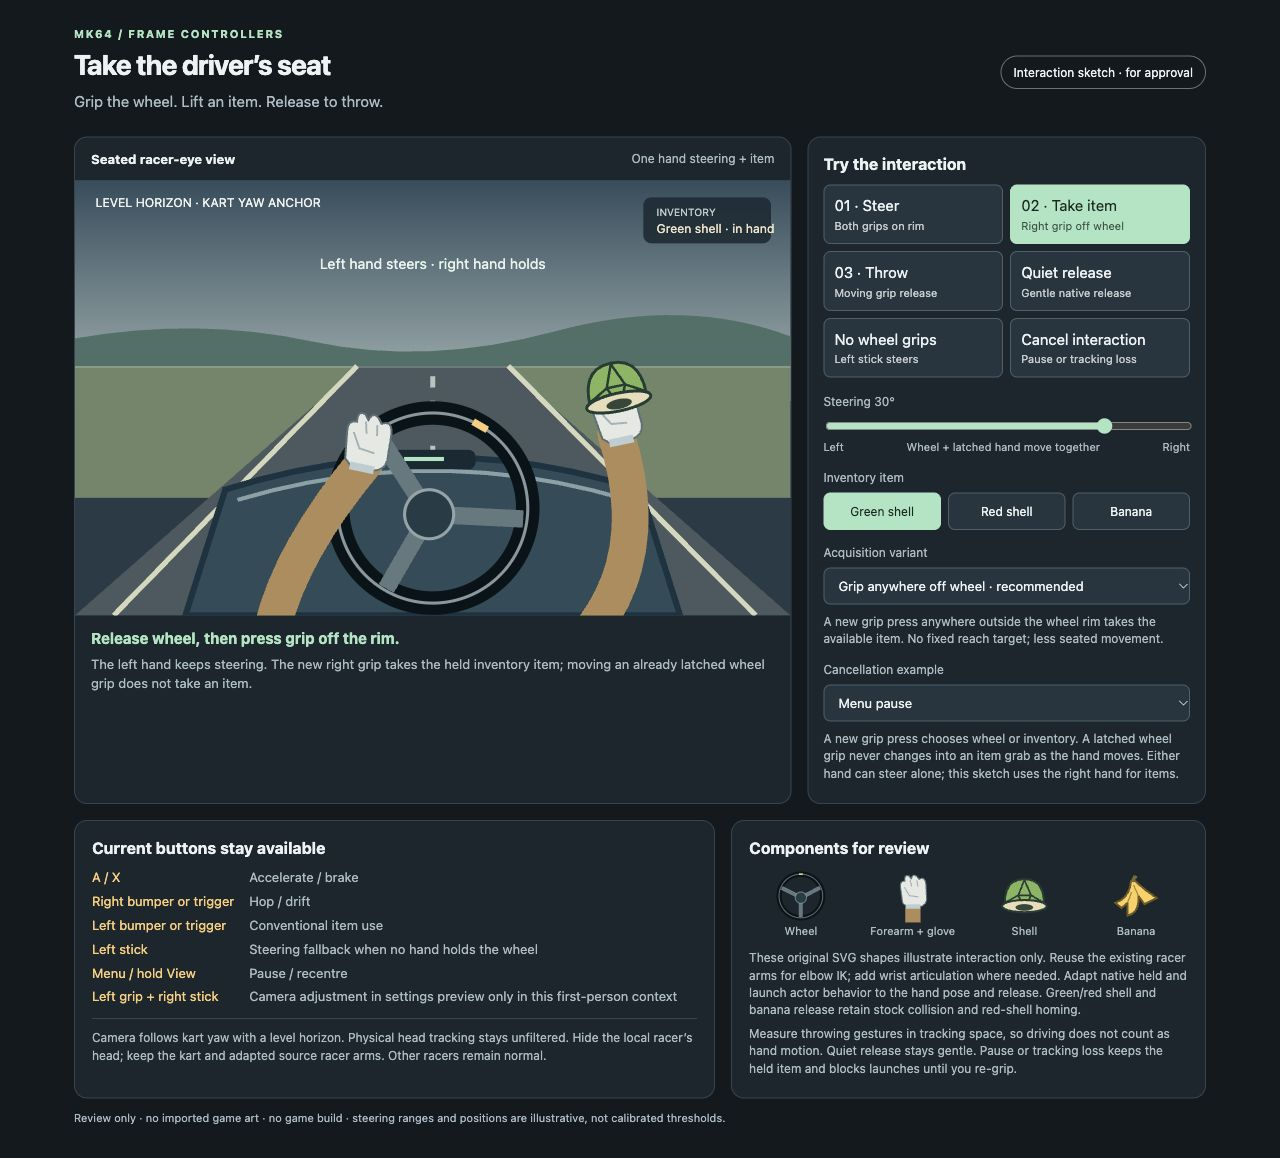
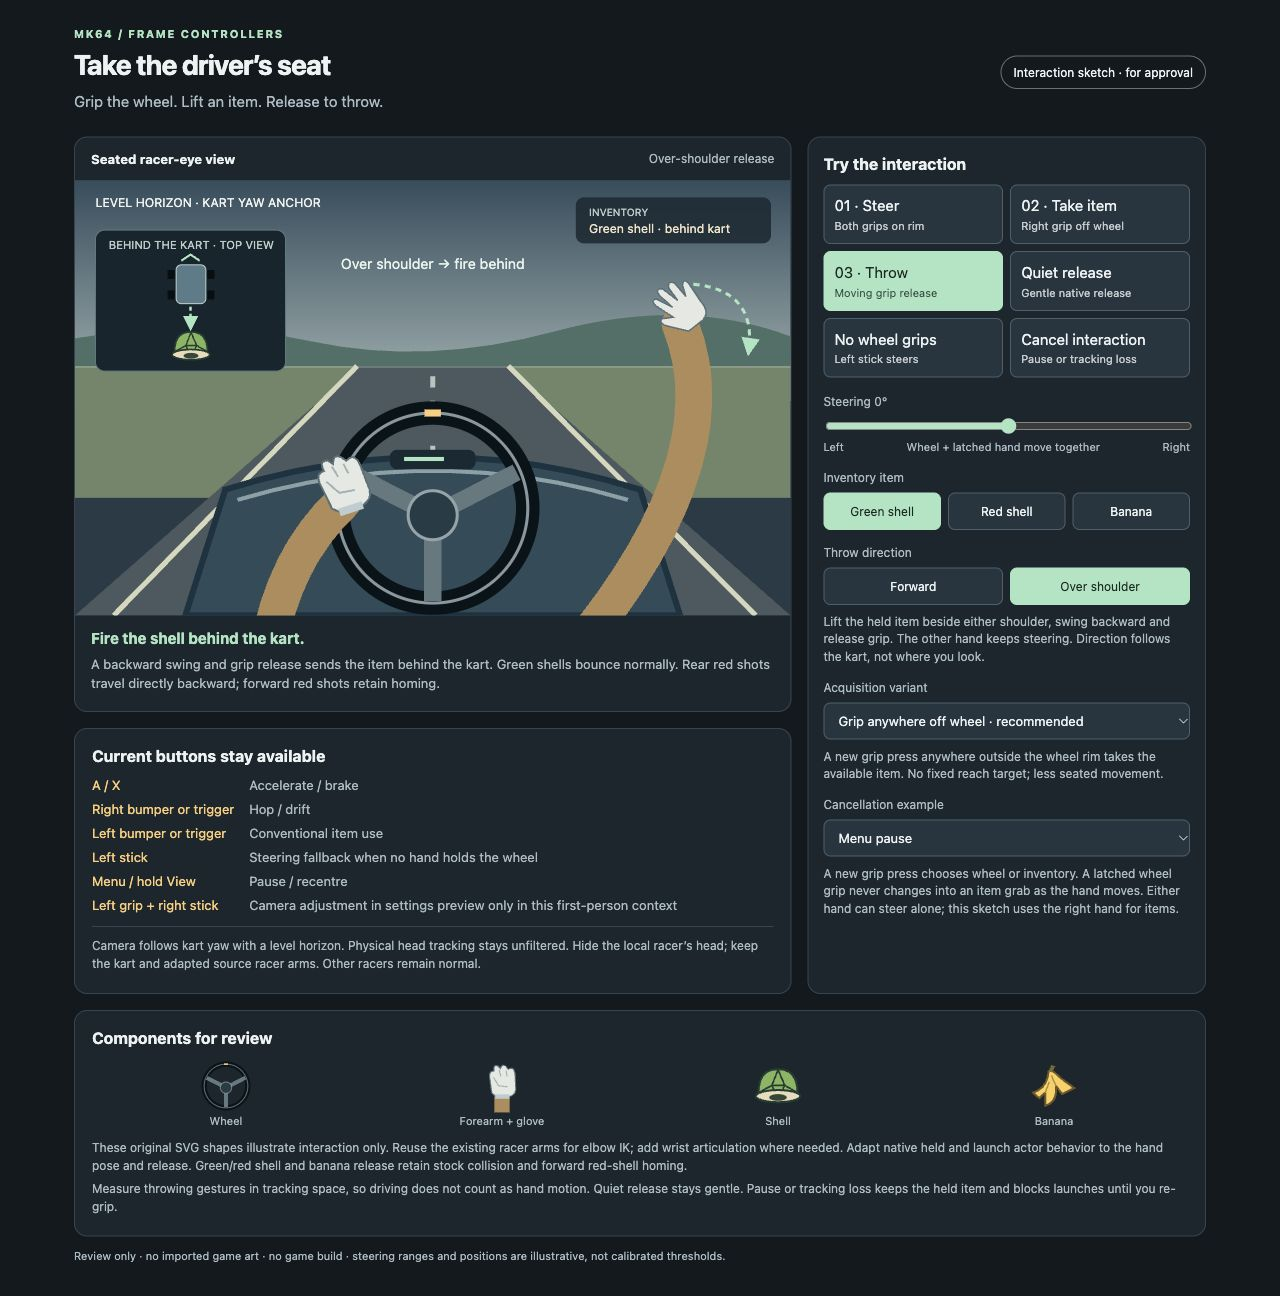
Add over-shoulder item release to first-person mockup

Changed region(s): [[0.0312, 0.0, 0.9375, 0.9326], [0.0625, 0.9637, 0.5625, 0.9948], [0.7812, 0.0311, 0.9375, 0.0933]]

diff --git a/docs/mockups/mk64-first-person.html b/docs/mockups/mk64-first-person.html
@@ -4,7 +4,7 @@
 <meta name="viewport" content="width=device-width,initial-scale=1">
 <title>MK64 Frame · First-person interaction sketch</title>
 <style>
-:root{color-scheme:dark;--bg:#12191e;--panel:#1b262e;--line:#344650;--text:#ecf2f3;--muted:#aabcc5;--accent:#a8e6c2;--gold:#ffcd75}*{box-sizing:border-box}body{margin:0;background:var(--bg);color:var(--text);font:15px/1.45 system-ui,sans-serif}main{max-width:1180px;margin:auto;padding:26px 24px}header{display:flex;justify-content:space-between;gap:20px;align-items:center;margin-bottom:18px}h1{font-size:28px;letter-spacing:-.8px;margin:2px 0}h2{font-size:16px;margin:0 0 9px}p{margin:6px 0;color:var(--muted)}.eyebrow{font-size:11px;letter-spacing:1.7px;font-weight:700;color:var(--accent)}.badge{border:1px solid #647471;padding:7px 12px;border-radius:24px;font-size:12px;white-space:nowrap}.layout{display:grid;grid-template-columns:minmax(0,1.8fr) minmax(300px,1fr);gap:16px}.panel{background:var(--panel);border:1px solid var(--line);border-radius:13px;overflow:hidden}.scene-head{display:flex;justify-content:space-between;align-items:center;padding:12px 16px;border-bottom:1px solid var(--line)}.scene-head strong{font-size:13px}.scene-head span{color:var(--muted);font-size:12px}#scene{width:100%;display:block;background:#273b46}.caption{padding:12px 16px;min-height:95px}.caption strong{color:var(--accent)}.caption p{font-size:13px}.controls{padding:15px}.steps{display:grid;grid-template-columns:1fr 1fr;gap:7px;margin-bottom:15px}button,select{font:inherit;color:var(--text);background:#253540;border:1px solid #49616d;border-radius:7px;padding:9px 10px;cursor:pointer;text-align:left}button:hover{background:#334b57}button:focus-visible,input:focus-visible,select:focus-visible{outline:3px solid var(--gold);outline-offset:2px}button[aria-pressed=true]{background:#a8e6c2;color:#142921;border-color:#a8e6c2}button small{display:block;font-size:11px;opacity:.8;margin-top:2px}.row{display:flex;gap:7px;align-items:center}.row button{flex:1;text-align:center;font-size:12px}.field{margin-top:14px}.field label,.label{display:block;font-size:12px;color:var(--muted);margin-bottom:6px}input[type=range]{width:100%;accent-color:var(--accent)}.range-label{display:flex;justify-content:space-between;font-size:11px;color:var(--muted)}select{width:100%;font-size:13px}.rule{font-size:12px;color:var(--muted);margin-top:8px}.bottom{display:grid;grid-template-columns:1.35fr 1fr;gap:16px;margin-top:16px}.section{padding:15px 17px}dl{display:grid;grid-template-columns:auto 1fr;gap:5px 15px;margin:0;font-size:13px}dt{color:var(--gold)}dd{margin:0;color:var(--muted)}.camera{font-size:12px;margin-top:12px;border-top:1px solid var(--line);padding-top:10px}.assets{display:flex;gap:8px;justify-content:space-between;margin:10px 0}.asset{text-align:center;color:var(--muted);font-size:11px;flex:1}.asset svg{width:100%;height:54px;display:block}.note{font-size:12px}.foot{font-size:11px;color:var(--muted);margin-top:12px}svg text{font-family:system-ui,sans-serif}#trajectory{stroke-dasharray:6 5}#heldItem,#flyingItem,#leftHand,#rightHand{transition:transform .18s ease} @media(max-width:850px){main{padding:18px 14px}.layout,.bottom{grid-template-columns:1fr}header{align-items:flex-start}h1{font-size:23px}.caption{min-height:0}}@media(prefers-reduced-motion:reduce){*{transition:none!important}}
+:root{color-scheme:dark;--bg:#12191e;--panel:#1b262e;--line:#344650;--text:#ecf2f3;--muted:#aabcc5;--accent:#a8e6c2;--gold:#ffcd75}*{box-sizing:border-box}body{margin:0;background:var(--bg);color:var(--text);font:15px/1.45 system-ui,sans-serif}main{max-width:1180px;margin:auto;padding:26px 24px}header{display:flex;justify-content:space-between;gap:20px;align-items:center;margin-bottom:18px}h1{font-size:28px;letter-spacing:-.8px;margin:2px 0}h2{font-size:16px;margin:0 0 9px}p{margin:6px 0;color:var(--muted)}.eyebrow{font-size:11px;letter-spacing:1.7px;font-weight:700;color:var(--accent)}.badge{border:1px solid #647471;padding:7px 12px;border-radius:24px;font-size:12px;white-space:nowrap}.layout{display:grid;grid-template-columns:minmax(0,1.8fr) minmax(300px,1fr);grid-template-areas:"scene controls" "buttons controls" "assets assets";gap:16px}.layout>.panel:first-child{grid-area:scene}.panel{background:var(--panel);border:1px solid var(--line);border-radius:13px;overflow:hidden}.scene-head{display:flex;justify-content:space-between;align-items:center;padding:12px 16px;border-bottom:1px solid var(--line)}.scene-head strong{font-size:13px}.scene-head span{color:var(--muted);font-size:12px}#scene{width:100%;display:block;background:#273b46}.caption{padding:12px 16px;min-height:95px}.caption strong{color:var(--accent)}.caption p{font-size:13px}.controls{grid-area:controls;padding:15px}.steps{display:grid;grid-template-columns:1fr 1fr;gap:7px;margin-bottom:15px}button,select{font:inherit;color:var(--text);background:#253540;border:1px solid #49616d;border-radius:7px;padding:9px 10px;cursor:pointer;text-align:left}button:hover{background:#334b57}button:focus-visible,input:focus-visible,select:focus-visible{outline:3px solid var(--gold);outline-offset:2px}button[aria-pressed=true]{background:#a8e6c2;color:#142921;border-color:#a8e6c2}button small{display:block;font-size:11px;opacity:.8;margin-top:2px}.row{display:flex;gap:7px;align-items:center}.row button{flex:1;text-align:center;font-size:12px}.field{margin-top:14px}.field label,.label{display:block;font-size:12px;color:var(--muted);margin-bottom:6px}input[type=range]{width:100%;accent-color:var(--accent)}.range-label{display:flex;justify-content:space-between;font-size:11px;color:var(--muted)}select{width:100%;font-size:13px}.rule{font-size:12px;color:var(--muted);margin-top:8px}.bottom{display:contents}.bottom>.section:first-child{grid-area:buttons}.bottom>.section:last-child{grid-area:assets}.section{padding:15px 17px}dl{display:grid;grid-template-columns:auto 1fr;gap:5px 15px;margin:0;font-size:13px}dt{color:var(--gold)}dd{margin:0;color:var(--muted)}.camera{font-size:12px;margin-top:12px;border-top:1px solid var(--line);padding-top:10px}.assets{display:flex;gap:8px;justify-content:space-between;margin:10px 0}.asset{text-align:center;color:var(--muted);font-size:11px;flex:1}.asset svg{width:100%;height:54px;display:block}.note{font-size:12px}.foot{font-size:11px;color:var(--muted);margin-top:12px}svg text{font-family:system-ui,sans-serif}#trajectory{stroke-dasharray:6 5}#heldItem,#flyingItem,#leftHand,#rightHand{transition:transform .18s ease} @media(max-width:850px){main{padding:18px 14px}.layout{grid-template-columns:1fr;grid-template-areas:"scene" "controls" "buttons" "assets"}header{align-items:flex-start}h1{font-size:23px}.caption{min-height:0}}@media(prefers-reduced-motion:reduce){*{transition:none!important}}
 </style>
 <main>
  <header><div><div class="eyebrow">MK64 / FRAME CONTROLLERS</div><h1>Take the driver’s seat</h1><p>Grip the wheel. Lift an item. Release to throw.</p></div><div class="badge">Interaction sketch · for approval</div></header>
@@ -28,7 +28,7 @@
     <path d="M276 181L38 425M424 181L666 425" stroke="#d4d7bc" stroke-width="5"/><path d="M350 191V202M350 215V237M350 259V299" stroke="#b8c4bf" stroke-width="5"/>
     <path d="M0 182H700" stroke="#cbd6d0" stroke-width="1" opacity=".5"/>
     <text x="20" y="25" fill="#f0f4f0" font-size="12">LEVEL HORIZON · KART YAW ANCHOR</text>
-    <rect x="556" y="16" width="125" height="45" rx="8" fill="#1b2b34" opacity=".9"/><text id="inventoryText" x="569" y="34" fill="#bbcdc9" font-size="10">INVENTORY</text><text id="inventoryValue" x="569" y="51" fill="#f1e5c8" font-size="12">Green shell · 1</text>
+    <rect x="490" y="16" width="191" height="45" rx="8" fill="#1b2b34" opacity=".9"/><text id="inventoryText" x="503" y="34" fill="#bbcdc9" font-size="10">INVENTORY</text><text id="inventoryValue" x="503" y="51" fill="#f1e5c8" font-size="12">Green shell · 1</text>
     <path d="M108 425L147 302Q350 238 553 302L592 425Z" fill="#304c59" stroke="#173340" stroke-width="6"/>
     <path d="M159 312Q350 255 541 312" stroke="#86a2a7" stroke-width="4" fill="none"/>
     <rect x="308" y="263" width="84" height="19" rx="7" fill="#172a33"/><path d="M322 272H361" stroke="#a8e6c2" stroke-width="4"/>
@@ -40,6 +40,15 @@
     <g id="heldItem" color="#83b65a"><use class="itemShape" href="#shell" x="-34" y="-31" width="68" height="62"/></g>
     <path id="trajectory" d="" fill="none" stroke="#a8e6c2" stroke-width="3" marker-end="url(#arrow)"/>
     <g id="flyingItem" color="#83b65a"><use class="itemShape" href="#shell" x="-29" y="-28" width="58" height="56"/></g>
+    <g id="rearInset" display="none">
+     <rect x="20" y="48" width="186" height="138" rx="9" fill="#15252e" stroke="#5e7a83"/>
+     <text x="33" y="67" fill="#bbcdc9" font-size="11">BEHIND THE KART · TOP VIEW</text>
+     <path d="M104 78L113 72 122 78" fill="none" stroke="#a8e6c2" stroke-width="2"/>
+     <rect x="99" y="82" width="29" height="38" rx="5" fill="#587c8a" stroke="#bdd1d0"/>
+     <path d="M94 87V96M133 87V96M94 107V116M133 107V116" stroke="#060f14" stroke-width="7"/>
+     <path d="M113 123V144" stroke="#a8e6c2" stroke-width="2.5" stroke-dasharray="4 3" marker-end="url(#arrow)"/>
+     <g id="rearItem" color="#83b65a"><use class="itemShape" href="#shell" x="94" y="144" width="39" height="35"/></g>
+    </g>
     <g id="cancelOverlay" display="none"><rect x="205" y="112" width="290" height="65" rx="10" fill="#15252e" stroke="#b7c9cb"/><text id="cancelTitle" x="350" y="138" text-anchor="middle" fill="#e9efef" font-size="16">Paused · grips cancelled</text><text x="350" y="159" text-anchor="middle" fill="#b7c9cb" font-size="12">No throw · release, then grip again to resume</text></g>
     <text id="actionLabel" x="350" y="86" text-anchor="middle" fill="#e5f4eb" font-size="14">Turn either held hand to steer</text>
    </svg>
@@ -57,37 +66,46 @@
    </div>
    <div class="field"><label for="steering">Steering <output id="angle">0°</output></label><input id="steering" type="range" min="-55" max="55" value="0"><div class="range-label"><span>Left</span><span>Wheel + latched hand move together</span><span>Right</span></div></div>
    <div class="field"><span class="label">Inventory item</span><div class="row" id="items"><button data-item="green" aria-pressed="true">Green shell</button><button data-item="red" aria-pressed="false">Red shell</button><button data-item="banana" aria-pressed="false">Banana</button></div></div>
+   <div class="field"><span class="label">Throw direction</span><div class="row" id="throws"><button data-direction="forward" aria-pressed="true">Forward</button><button data-direction="back" aria-pressed="false">Over shoulder</button></div><p class="rule">Lift the held item beside either shoulder, swing backward and release grip. The other hand keeps steering. Direction follows the kart, not where you look.</p></div>
    <div class="field"><label for="acquisition">Acquisition variant</label><select id="acquisition"><option value="any">Grip anywhere off wheel · recommended</option><option value="side">Reach to side pickup</option></select><p id="variantNote" class="rule"></p></div>
    <div class="field"><label for="cancelReason">Cancellation example</label><select id="cancelReason"><option value="pause">Menu pause</option><option value="tracking">Tracking lost</option></select></div>
    <p class="rule">A new grip press chooses wheel or inventory. A latched wheel grip never changes into an item grab as the hand moves. Either hand can steer alone; this sketch uses the right hand for items.</p>
   </section>
- </div>
  <div class="bottom">
   <section class="panel section"><h2>Current buttons stay available</h2><dl><dt>A / X</dt><dd>Accelerate / brake</dd><dt>Right bumper or trigger</dt><dd>Hop / drift</dd><dt>Left bumper or trigger</dt><dd>Conventional item use</dd><dt>Left stick</dt><dd>Steering fallback when no hand holds the wheel</dd><dt>Menu / hold View</dt><dd>Pause / recentre</dd><dt>Left grip + right stick</dt><dd>Camera adjustment in settings preview only in this first-person context</dd></dl><p class="camera">Camera follows kart yaw with a level horizon. Physical head tracking stays unfiltered. Hide the local racer’s head; keep the kart and adapted source racer arms. Other racers remain normal.</p></section>
-  <section class="panel section"><h2>Components for review</h2><div class="assets"><div class="asset"><svg viewBox="-115 -115 230 230"><use href="#wheel" x="-110" y="-110" width="220" height="220"/></svg>Wheel</div><div class="asset"><svg viewBox="-40 -40 80 95"><path d="M0 54V13" stroke="#b18c58" stroke-width="27"/><use href="#glove" x="-26" y="-31" width="52" height="62"/></svg>Forearm + glove</div><div class="asset"><svg viewBox="-40 -40 80 80" color="#83b65a"><use href="#shell" x="-35" y="-30" width="70" height="60"/></svg>Shell</div><div class="asset"><svg viewBox="-40 -40 80 80"><use href="#banana" x="-35" y="-35" width="70" height="70"/></svg>Banana</div></div><p class="note">These original SVG shapes illustrate interaction only. Reuse the existing racer arms for elbow IK; add wrist articulation where needed. Adapt native held and launch actor behavior to the hand pose and release. Green/red shell and banana release retain stock collision and red-shell homing.</p><p class="note">Measure throwing gestures in tracking space, so driving does not count as hand motion. Quiet release stays gentle. Pause or tracking loss keeps the held item and blocks launches until you re-grip.</p></section>
+  <section class="panel section"><h2>Components for review</h2><div class="assets"><div class="asset"><svg viewBox="-115 -115 230 230"><use href="#wheel" x="-110" y="-110" width="220" height="220"/></svg>Wheel</div><div class="asset"><svg viewBox="-40 -40 80 95"><path d="M0 54V13" stroke="#b18c58" stroke-width="27"/><use href="#glove" x="-26" y="-31" width="52" height="62"/></svg>Forearm + glove</div><div class="asset"><svg viewBox="-40 -40 80 80" color="#83b65a"><use href="#shell" x="-35" y="-30" width="70" height="60"/></svg>Shell</div><div class="asset"><svg viewBox="-40 -40 80 80"><use href="#banana" x="-35" y="-35" width="70" height="70"/></svg>Banana</div></div><p class="note">These original SVG shapes illustrate interaction only. Reuse the existing racer arms for elbow IK; add wrist articulation where needed. Adapt native held and launch actor behavior to the hand pose and release. Green/red shell and banana release retain stock collision and forward red-shell homing.</p><p class="note">Measure throwing gestures in tracking space, so driving does not count as hand motion. Quiet release stays gentle. Pause or tracking loss keeps the held item and blocks launches until you re-grip.</p></section>
+ </div>
  </div><p class="foot">Review only · no imported game art · no game build · steering ranges and positions are illustrative, not calibrated thresholds.</p>
 </main>
 <script>
-const $=id=>document.getElementById(id);let phase='steer',item='green';
+const $=id=>document.getElementById(id);let phase='steer',item='green',direction='forward';
 const names={green:'Green shell',red:'Red shell',banana:'Banana'};
 const states={steer:['Both hands on wheel','Grip the rim to steer.','Both forearms follow the hands through arm IK. Either hand can keep steering when the other releases.','Turn either held hand to steer'],hold:['One hand steering + item','Release wheel, then press grip off the rim.','The left hand keeps steering. The new right grip takes the held inventory item; moving an already latched wheel grip does not take an item.','Left hand steers · right hand holds'],throw:['Physical throw release','Move the held item, then release grip.','Measure the hand’s raw tracking-space motion. Release through the native item actor; preserve collision and red-shell homing. Kart motion cannot trigger a throw.','Release grip → physical throw'],drop:['Quiet release / drop','Release without a throwing gesture.','Use a gentle native release or drop appropriate to the item. Driving cannot turn a quiet release into a throwing gesture.','Quiet hand → gentle release'],free:['Left-stick fallback','Let go of the wheel.','With no wheel grips, the left stick steers. The arms rest freely; grabbing the rim again returns steering to the held hand.','No wheel grips · left stick steers'],cancel:['Interaction cancelled','Cancel safely; do not throw.','Pause or tracking loss clears the grip latch and throw history. Keep the held item; require release and a fresh grip press after recovery.','Interaction suspended']};
 function point(x,y,a){const r=a*Math.PI/180;return [350+x*Math.cos(r)-y*Math.sin(r),320+x*Math.sin(r)+y*Math.cos(r)]}
 function pose(id,p,a){$(id).setAttribute('transform',`translate(${p[0]} ${p[1]}) rotate(${a})`)}
-function render(){const angle=+$('steering').value, s=states[phase],active=!['free','cancel'].includes(phase),both=phase==='steer',held=phase==='hold',side=$('acquisition').value==='side';
+function render(){const angle=+$('steering').value, s=states[phase],active=!['free','cancel'].includes(phase),both=phase==='steer',held=phase==='hold',side=$('acquisition').value==='side',rear=direction==='back',released=['throw','drop'].includes(phase),rearLaunch=rear&&released;
  $('angle').value=`${angle}°`;$('modeLabel').textContent=s[0];$('phaseTitle').textContent=s[1];$('phaseDetail').textContent=s[2];$('actionLabel').textContent=s[3];
+ if(rear&&(held||released)){
+  $('modeLabel').textContent=held?'One hand steering + shoulder hold':phase==='drop'?'Quiet rear release':'Over-shoulder release';
+  $('phaseTitle').textContent=held?'Lift the held item beside either shoulder.':item==='banana'?'Drop the banana behind the kart.':'Fire the shell behind the kart.';
+  $('phaseDetail').textContent=held?'Keep grip held while raising the item. Your other hand steers. Looking behind does not change the kart-relative throw direction.':(phase==='drop'?'A quiet grip release uses a gentle rear release. ':'A backward swing and grip release sends the item behind the kart. ')+(item==='banana'?'The banana drops behind and lands using normal banana physics.':'Green shells bounce normally. Rear red shots travel directly backward; forward red shots retain homing.');
+  $('actionLabel').textContent=held?'Other hand steers · item beside shoulder':(phase==='drop'?'Quiet release → ':'Over shoulder → ')+(item==='banana'?'drop behind':'fire behind');
+ }
  $('wheelPose').setAttribute('transform',`rotate(${angle} 350 320)`);
- const left=active?point(-88,-23,angle):[206,395];const right=both?point(88,-23,angle):phase==='free'||phase==='cancel'?[494,395]:held?(side?[570,281]:[529,230]):[522,241];
- pose('leftHand',left,active?angle-18:0);pose('rightHand',right,both?angle+18:-12);$('rightGlove').setAttribute('href',['throw','drop','cancel','free'].includes(phase)?'#openGlove':'#glove');
- $('leftArm').setAttribute('d',`M193 438Q211 362 ${left[0]} ${left[1]+17}`);$('rightArm').setAttribute('d',`M507 438Q566 360 ${right[0]} ${right[1]+17}`);
+ const left=active?point(-88,-23,angle):[206,395];const right=both?point(88,-23,angle):phase==='free'||phase==='cancel'?[494,395]:rear&&(held||released)?[592,123]:held?(side?[570,281]:[529,230]):[522,241];
+ pose('leftHand',left,active?angle-18:0);pose('rightHand',right,both?angle+18:rear&&(held||released)?-48:-12);$('rightGlove').setAttribute('href',['throw','drop','cancel','free'].includes(phase)?'#openGlove':'#glove');
+ $('leftArm').setAttribute('d',`M193 438Q211 362 ${left[0]} ${left[1]+17}`);$('rightArm').setAttribute('d',`M507 438Q${rear&&(held||released)?'642 264':'566 360'} ${right[0]} ${right[1]+17}`);
  $('heldItem').setAttribute('display',held?'inline':'none');pose('heldItem',[right[0],right[1]-28],-12);
- const released=['throw','drop'].includes(phase);$('flyingItem').setAttribute('display',released?'inline':'none');pose('flyingItem',phase==='throw'?[432,131]:[546,331],phase==='throw'?-20:25);
- $('trajectory').setAttribute('d',phase==='throw'?'M519 213Q526 136 453 128':phase==='drop'?'M537 250Q551 279 547 298':'');
- document.querySelectorAll('.itemShape').forEach(el=>el.setAttribute('href',item==='banana'?'#banana':'#shell'));['heldItem','flyingItem'].forEach(id=>$(id).setAttribute('color',item==='red'?'#d97064':'#83b65a'));
- $('inventoryValue').textContent=names[item]+(released?' · released':held?' · in hand':' · 1');$('pickupZone').setAttribute('display',side?'inline':'none');
+ $('flyingItem').setAttribute('display',released&&!rearLaunch?'inline':'none');pose('flyingItem',phase==='throw'?[432,131]:[546,331],phase==='throw'?-20:25);
+ $('rearInset').setAttribute('display',rearLaunch?'inline':'none');
+ $('trajectory').setAttribute('d',rearLaunch?'M605 101Q668 107 659 168':phase==='throw'?'M519 213Q526 136 453 128':phase==='drop'?'M537 250Q551 279 547 298':'');
+ document.querySelectorAll('.itemShape').forEach(el=>el.setAttribute('href',item==='banana'?'#banana':'#shell'));['heldItem','flyingItem','rearItem'].forEach(id=>$(id).setAttribute('color',item==='red'?'#d97064':'#83b65a'));
+ $('inventoryValue').textContent=names[item]+(rearLaunch?' · behind kart':released?' · released':held?' · in hand':' · 1');$('pickupZone').setAttribute('display',side?'inline':'none');
  $('variantNote').textContent=side?'A new grip press inside the side pickup zone takes the item. A defined reach target costs more seated movement.':'A new grip press anywhere outside the wheel rim takes the available item. No fixed reach target; less seated movement.';
  $('cancelOverlay').setAttribute('display',phase==='cancel'?'inline':'none');$('cancelTitle').textContent=$('cancelReason').value==='pause'?'Paused · grips cancelled':'Tracking lost · grips cancelled';
  document.querySelectorAll('[data-phase]').forEach(b=>b.setAttribute('aria-pressed',String(b.dataset.phase===phase)));document.querySelectorAll('[data-item]').forEach(b=>b.setAttribute('aria-pressed',String(b.dataset.item===item)));
+ document.querySelectorAll('[data-direction]').forEach(b=>b.setAttribute('aria-pressed',String(b.dataset.direction===direction)));
 }
-$('phases').addEventListener('click',e=>{const b=e.target.closest('[data-phase]');if(b){phase=b.dataset.phase;render()}});$('items').addEventListener('click',e=>{const b=e.target.closest('[data-item]');if(b){item=b.dataset.item;render()}});$('steering').addEventListener('input',render);$('acquisition').addEventListener('change',render);$('cancelReason').addEventListener('change',()=>{phase='cancel';render()});render();
+$('phases').addEventListener('click',e=>{const b=e.target.closest('[data-phase]');if(b){phase=b.dataset.phase;render()}});$('items').addEventListener('click',e=>{const b=e.target.closest('[data-item]');if(b){item=b.dataset.item;render()}});$('throws').addEventListener('click',e=>{const b=e.target.closest('[data-direction]');if(b){direction=b.dataset.direction;render()}});$('steering').addEventListener('input',render);$('acquisition').addEventListener('change',render);$('cancelReason').addEventListener('change',()=>{phase='cancel';render()});render();
 </script>
 </html>

diff --git a/docs/VR_ARCHITECTURE.md b/docs/VR_ARCHITECTURE.md
@@ -375,6 +375,16 @@ Existing accelerator, brake, drift and item buttons remain available. Wheel
 steering uses the calibrated seat frame, so looking sideways does not steer.
 First-person grips reserve camera adjustment for the settings preview.
 
+The over-shoulder variant raises a held item beside either shoulder and releases
+it during a backward swing. Direction is measured in the calibrated kart/seat
+frame, independent of head yaw. Bananas drop behind; green shells fire backward
+with normal bounce/collision. Rear red-shell shots travel directly backward,
+while forward red throws retain native homing. This rear red behavior needs an
+explicit integration path: retail red-shell `MOVING_SHELL` advances to homing
+after its launch timer and can target a racer ahead. Invalid hand tracking must
+retain the item and disarm launch; losing a controller behind the shoulder must
+not count as a grip-release throw.
+
 This is a mockup awaiting controls/asset review, not an implemented or tested
 game feature. Its original SVG components illustrate interaction; the game
 should retain the standard Amped Up racer art. The mapped Mario/Wario armatures
